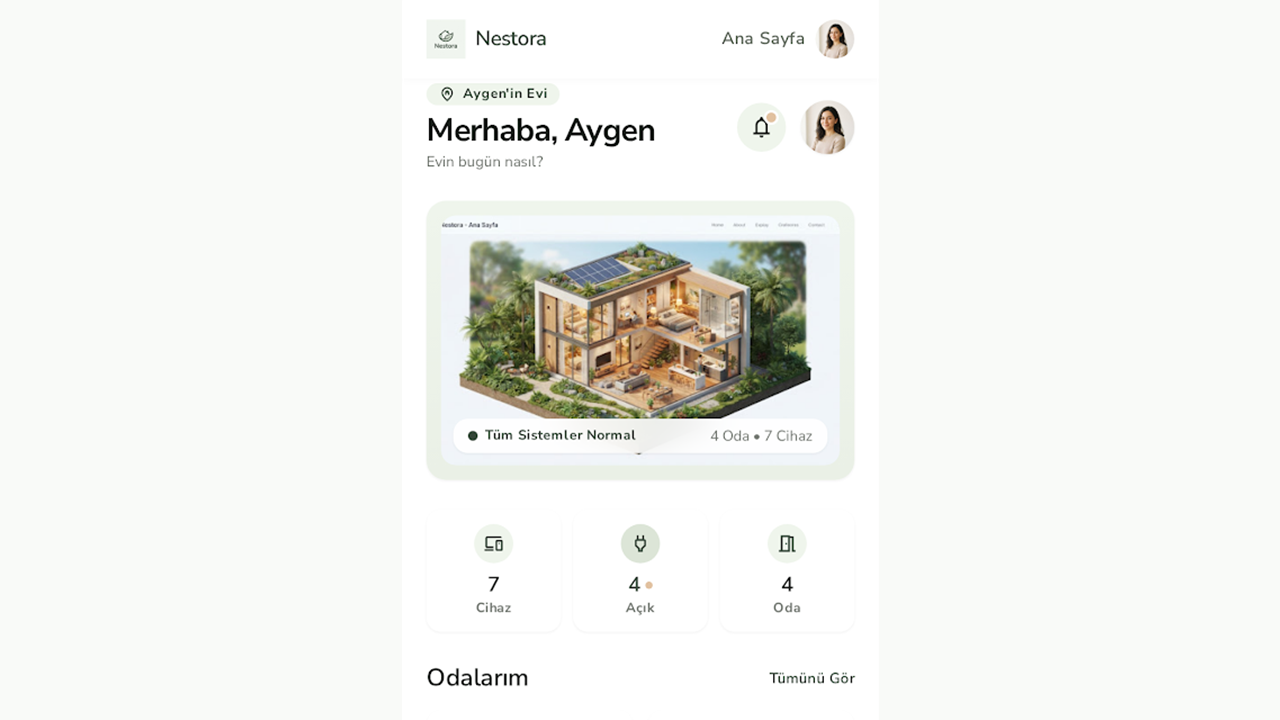
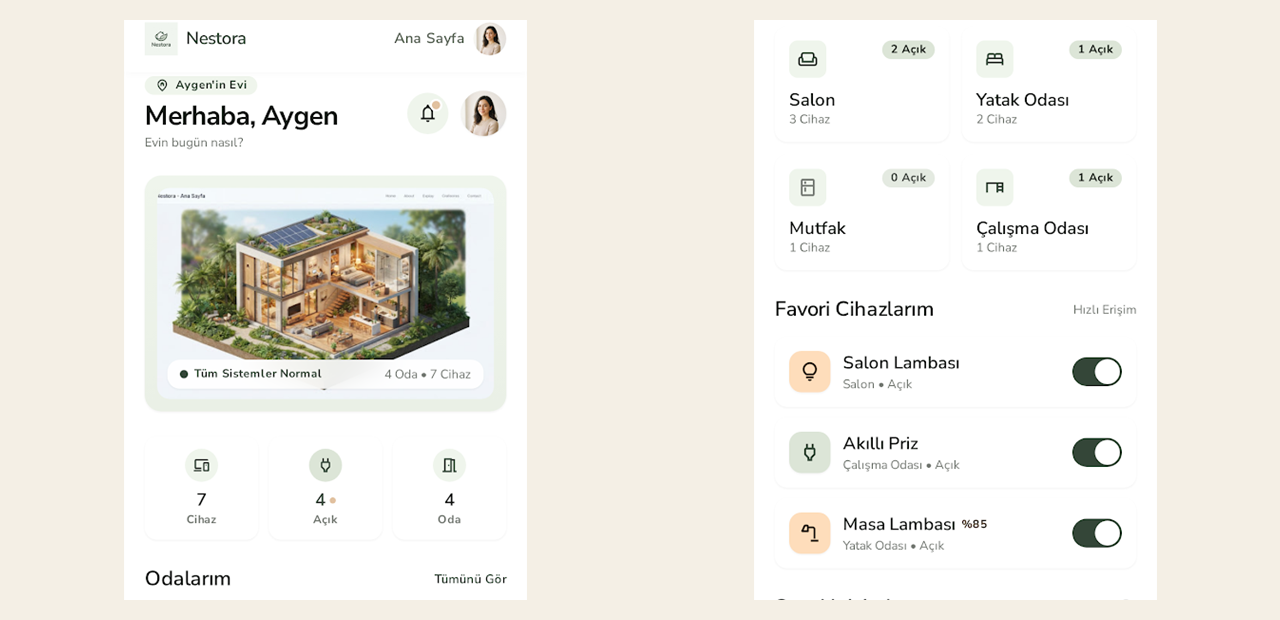
fix(feed): display full proportional mobile screens without top-cropping

diff --git a/client/src/features/feed/ProjectFeedCard.tsx b/client/src/features/feed/ProjectFeedCard.tsx
@@ -66,16 +66,16 @@ export function ProjectFeedCard({
         </p>
       </div>
 
-      {/* Visual Screenshot Container (Unified horizontal card layout like all projects) */}
+      {/* Visual Screenshot Container (Full un-cropped horizontal display) */}
       <div
         onClick={() => onOpenCaseStudy(project)}
-        className="group relative cursor-pointer rounded-md overflow-hidden border border-light-outline dark:border-dark-outline bg-light-surface dark:bg-dark-surface"
+        className="group relative cursor-pointer rounded-md overflow-hidden border border-light-outline dark:border-dark-outline bg-light-surface dark:bg-dark-surface flex items-center justify-center"
       >
         <img
           src={project.imageUrl}
           alt={project.title}
           loading="lazy"
-          className="w-full h-64 sm:h-80 object-cover object-top transition-transform duration-300 group-hover:scale-[1.01]"
+          className="w-full h-auto max-h-[420px] object-contain transition-transform duration-300 group-hover:scale-[1.01]"
         />
       </div>
 

diff --git a/server/prisma/seedData.ts b/server/prisma/seedData.ts
@@ -174,7 +174,7 @@ export const SEED_PROJECTS: (CreateProjectInput & { initialLikes: number })[] = 
     learned: [
       'Pairing BLoC/Cubit with Clean Architecture makes writing 400+ fast, deterministic tests genuinely enjoyable.',
     ],
-    imageUrl: '/assets/projects/nestora-showcase.png',
+    imageUrl: '/assets/projects/nestora-banner-v2.png',
     secondaryImageUrl: '/assets/projects/nestora-welcome-showcase.png',
     liveUrl: null,
     repoUrl: 'https://github.com/Aygen5/NESTORA',
@@ -344,7 +344,7 @@ export const SEED_PROJECTS: (CreateProjectInput & { initialLikes: number })[] = 
     learned: [
       'Clear upfront architecture and sprint planning multiply a team’s velocity far more than rushing straight into code.',
     ],
-    imageUrl: '/assets/projects/pawcare-showcase.png',
+    imageUrl: '/assets/projects/pawcare-banner-v2.png',
     secondaryImageUrl: '/assets/projects/pawcare-detail-showcase.png',
     liveUrl: null,
     repoUrl: 'https://github.com/Aygen5/PawCare',
